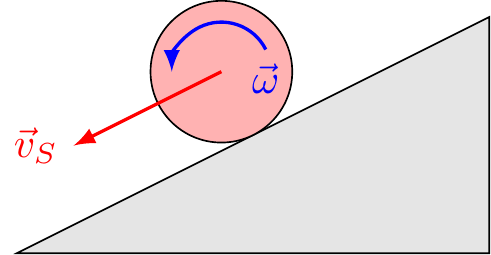
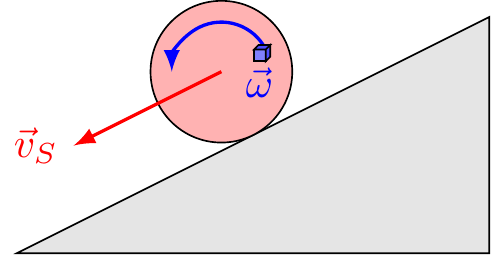
adding small cube

Changed region(s): [[0.4888, 0.1647, 0.5804, 0.3843]]

diff --git a/mechanics/body-inclined-plane/body-inclined-plane.tex b/mechanics/body-inclined-plane/body-inclined-plane.tex
@@ -17,7 +17,15 @@
   \draw[fill=red!30] (body) circle (\radius);
   % arrows
   \draw[->,red,thick] (body) -- ++(180+\al:0.7) node[left] {$\vec{v}_S$};
-  \draw[->,blue,thick] (body)++(\al:0.7*\radius) arc (\al:180:0.7*\radius);
-  \node[below,blue] at ($(body)+(\al:0.7*\radius)$) {$\vec{\omega}$};
+  \coordinate (cube) at ($(body)+(\al:0.7*\radius)$);
+  \draw[->,blue,thick] (cube) arc (\al:180:0.7*\radius);
+  \node[below,blue] at ($(body)+(\al:0.6*\radius)$) {$\vec{\omega}$};
+  % cube
+  \pgfmathsetmacro{\cubex}{0.05}
+  \pgfmathsetmacro{\cubey}{0.05}
+  \pgfmathsetmacro{\cubez}{0.05}
+  \draw[fill=blue!50] (cube) -- ++(-\cubex,0,0) -- ++(0,-\cubey,0) -- ++(\cubex,0,0) -- cycle;
+  \draw[fill=blue!70] (cube) -- ++(0,0,-\cubez) -- ++(0,-\cubey,0) -- ++(0,0,\cubez) -- cycle
+                      (cube) -- ++(-\cubex,0,0) -- ++(0,0,-\cubez) -- ++(\cubex,0,0) -- cycle;
 \end{tikzpicture}%
 \end{document}

diff --git a/mechanics/body-inclined-plane/body-inclined-plane_inverted.tex b/mechanics/body-inclined-plane/body-inclined-plane_inverted.tex
@@ -26,7 +26,15 @@
   \draw[fill=red!30] (body) circle (\radius);
   % arrows
   \draw[->,red,thick] (body) -- ++(180+\al:0.7) node[left] {$\vec{v}_S$};
-  \draw[->,blue,thick] (body)++(\al:0.7*\radius) arc (\al:180:0.7*\radius);
-  \node[below,blue] at ($(body)+(\al:0.7*\radius)$) {$\vec{\omega}$};
+  \coordinate (cube) at ($(body)+(\al:0.7*\radius)$);
+  \draw[->,blue,thick] (cube) arc (\al:180:0.7*\radius);
+  \node[below,blue] at ($(body)+(\al:0.6*\radius)$) {$\vec{\omega}$};
+  % cube
+  \pgfmathsetmacro{\cubex}{0.05}
+  \pgfmathsetmacro{\cubey}{0.05}
+  \pgfmathsetmacro{\cubez}{0.05}
+  \draw[fill=blue!50] (cube) -- ++(-\cubex,0,0) -- ++(0,-\cubey,0) -- ++(\cubex,0,0) -- cycle;
+  \draw[fill=blue!70] (cube) -- ++(0,0,-\cubez) -- ++(0,-\cubey,0) -- ++(0,0,\cubez) -- cycle
+                      (cube) -- ++(-\cubex,0,0) -- ++(0,0,-\cubez) -- ++(\cubex,0,0) -- cycle;
 \end{tikzpicture}%
 \end{document}

diff --git a/mechanics.md b/mechanics.md
@@ -129,8 +129,16 @@
   \draw[fill=red!30] (body) circle (\radius);
   % arrows
   \draw[->,red,thick] (body) -- ++(180+\al:0.7) node[left] {$\vec{v}_S$};
-  \draw[->,blue,thick] (body)++(\al:0.7*\radius) arc (\al:180:0.7*\radius);
-  \node[below,blue] at ($(body)+(\al:0.7*\radius)$) {$\vec{\omega}$};
+  \coordinate (cube) at ($(body)+(\al:0.7*\radius)$);
+  \draw[->,blue,thick] (cube) arc (\al:180:0.7*\radius);
+  \node[below,blue] at ($(body)+(\al:0.6*\radius)$) {$\vec{\omega}$};
+  % cube
+  \pgfmathsetmacro{\cubex}{0.05}
+  \pgfmathsetmacro{\cubey}{0.05}
+  \pgfmathsetmacro{\cubez}{0.05}
+  \draw[fill=blue!50] (cube) -- ++(-\cubex,0,0) -- ++(0,-\cubey,0) -- ++(\cubex,0,0) -- cycle;
+  \draw[fill=blue!70] (cube) -- ++(0,0,-\cubez) -- ++(0,-\cubey,0) -- ++(0,0,\cubez) -- cycle
+                      (cube) -- ++(-\cubex,0,0) -- ++(0,0,-\cubez) -- ++(\cubex,0,0) -- cycle;
 \end{tikzpicture}%
 \end{document}
 ~~~
@@ -2034,8 +2042,16 @@
   \draw[fill=red!30] (body) circle (\radius);
   % arrows
   \draw[->,red,thick] (body) -- ++(180+\al:0.7) node[left] {$\vec{v}_S$};
-  \draw[->,blue,thick] (body)++(\al:0.7*\radius) arc (\al:180:0.7*\radius);
-  \node[below,blue] at ($(body)+(\al:0.7*\radius)$) {$\vec{\omega}$};
+  \coordinate (cube) at ($(body)+(\al:0.7*\radius)$);
+  \draw[->,blue,thick] (cube) arc (\al:180:0.7*\radius);
+  \node[below,blue] at ($(body)+(\al:0.6*\radius)$) {$\vec{\omega}$};
+  % cube
+  \pgfmathsetmacro{\cubex}{0.05}
+  \pgfmathsetmacro{\cubey}{0.05}
+  \pgfmathsetmacro{\cubez}{0.05}
+  \draw[fill=blue!50] (cube) -- ++(-\cubex,0,0) -- ++(0,-\cubey,0) -- ++(\cubex,0,0) -- cycle;
+  \draw[fill=blue!70] (cube) -- ++(0,0,-\cubez) -- ++(0,-\cubey,0) -- ++(0,0,\cubez) -- cycle
+                      (cube) -- ++(-\cubex,0,0) -- ++(0,0,-\cubez) -- ++(\cubex,0,0) -- cycle;
 \end{tikzpicture}%
 \end{document}
 ~~~
